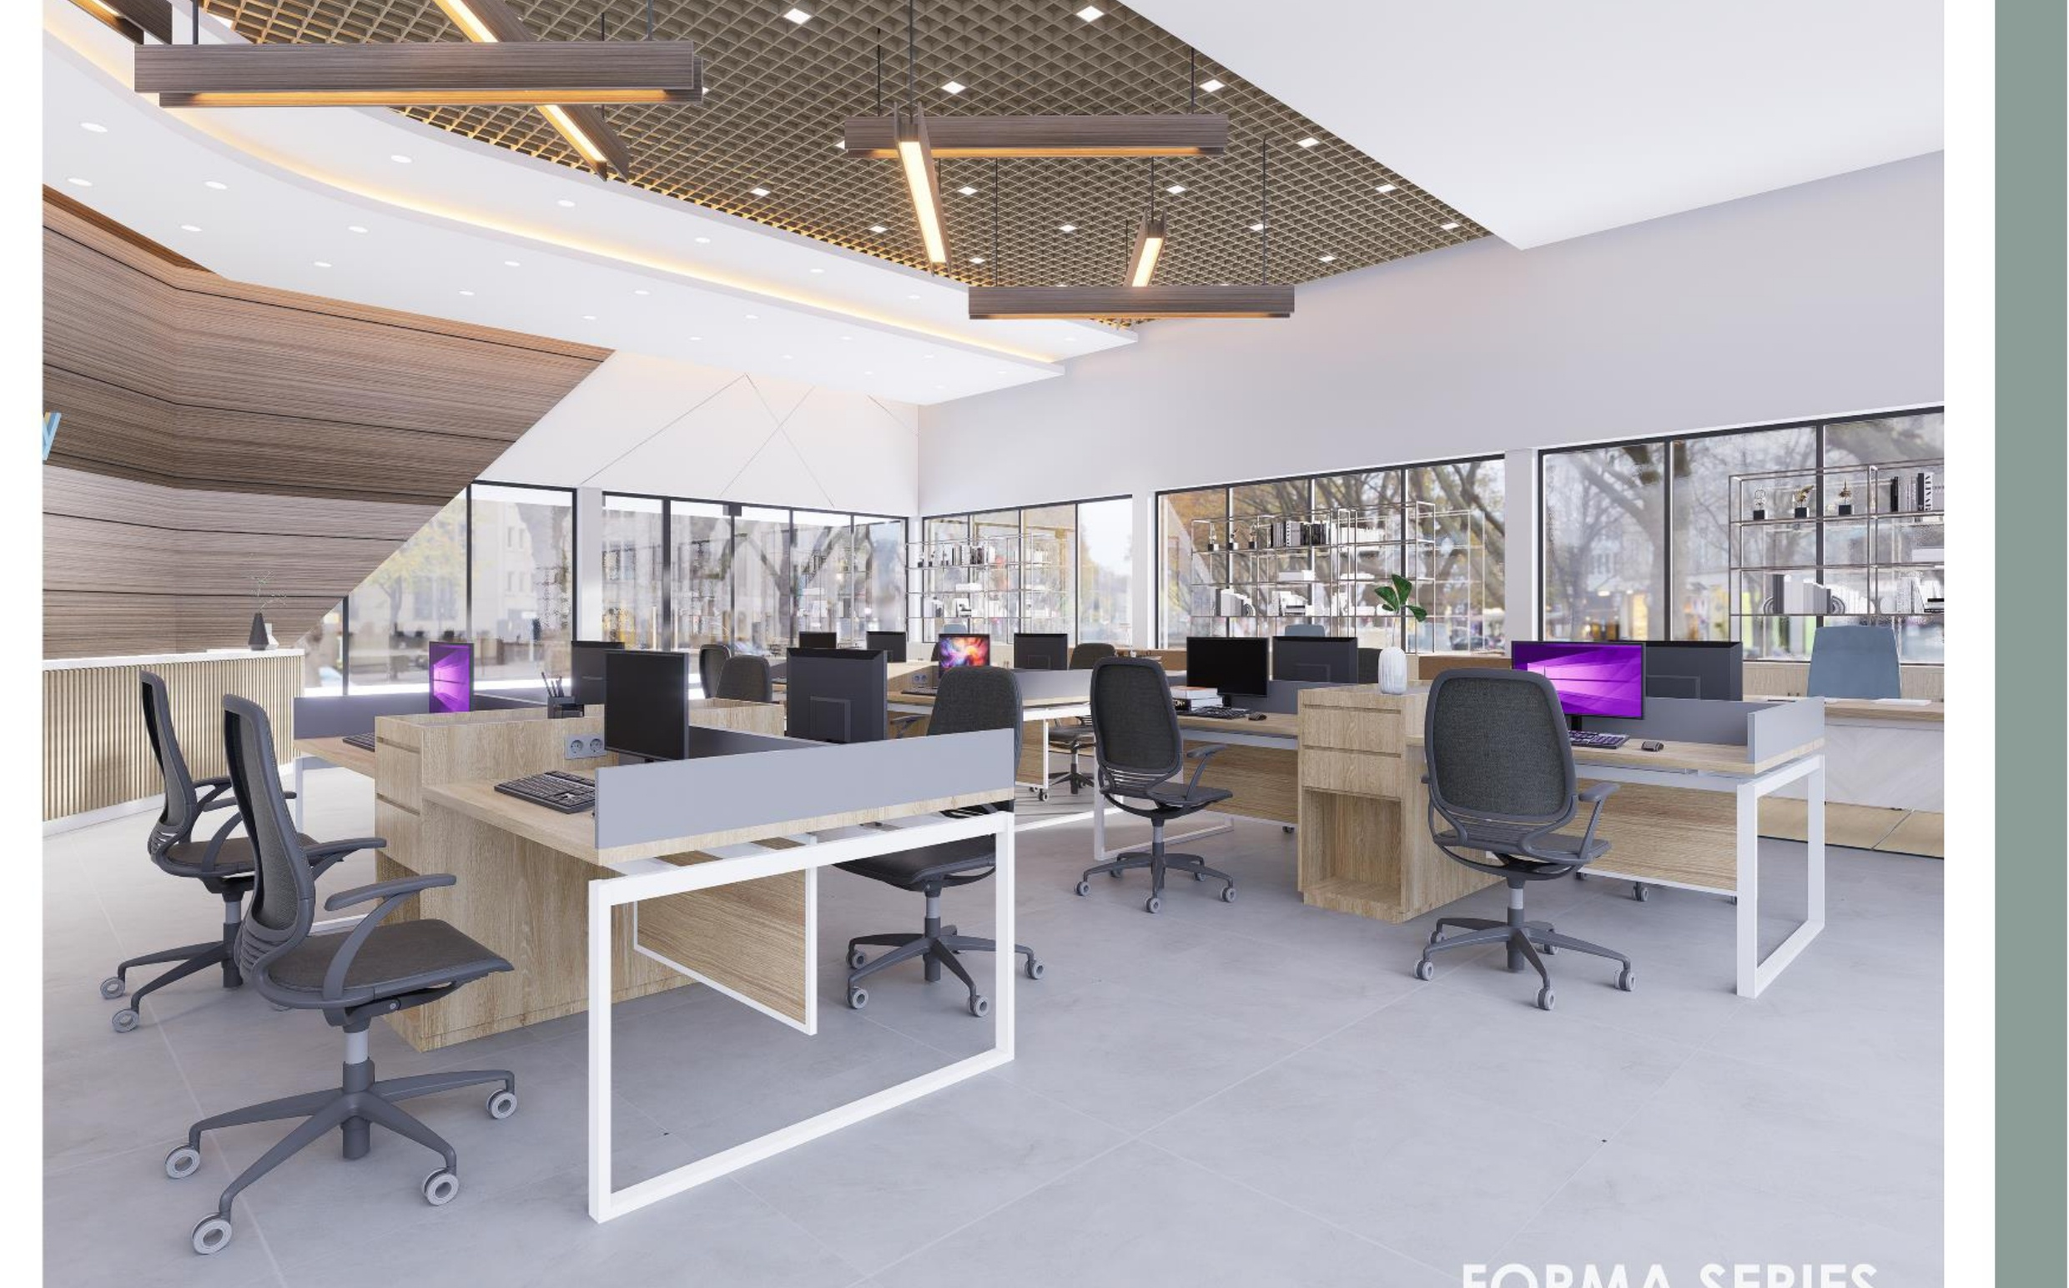
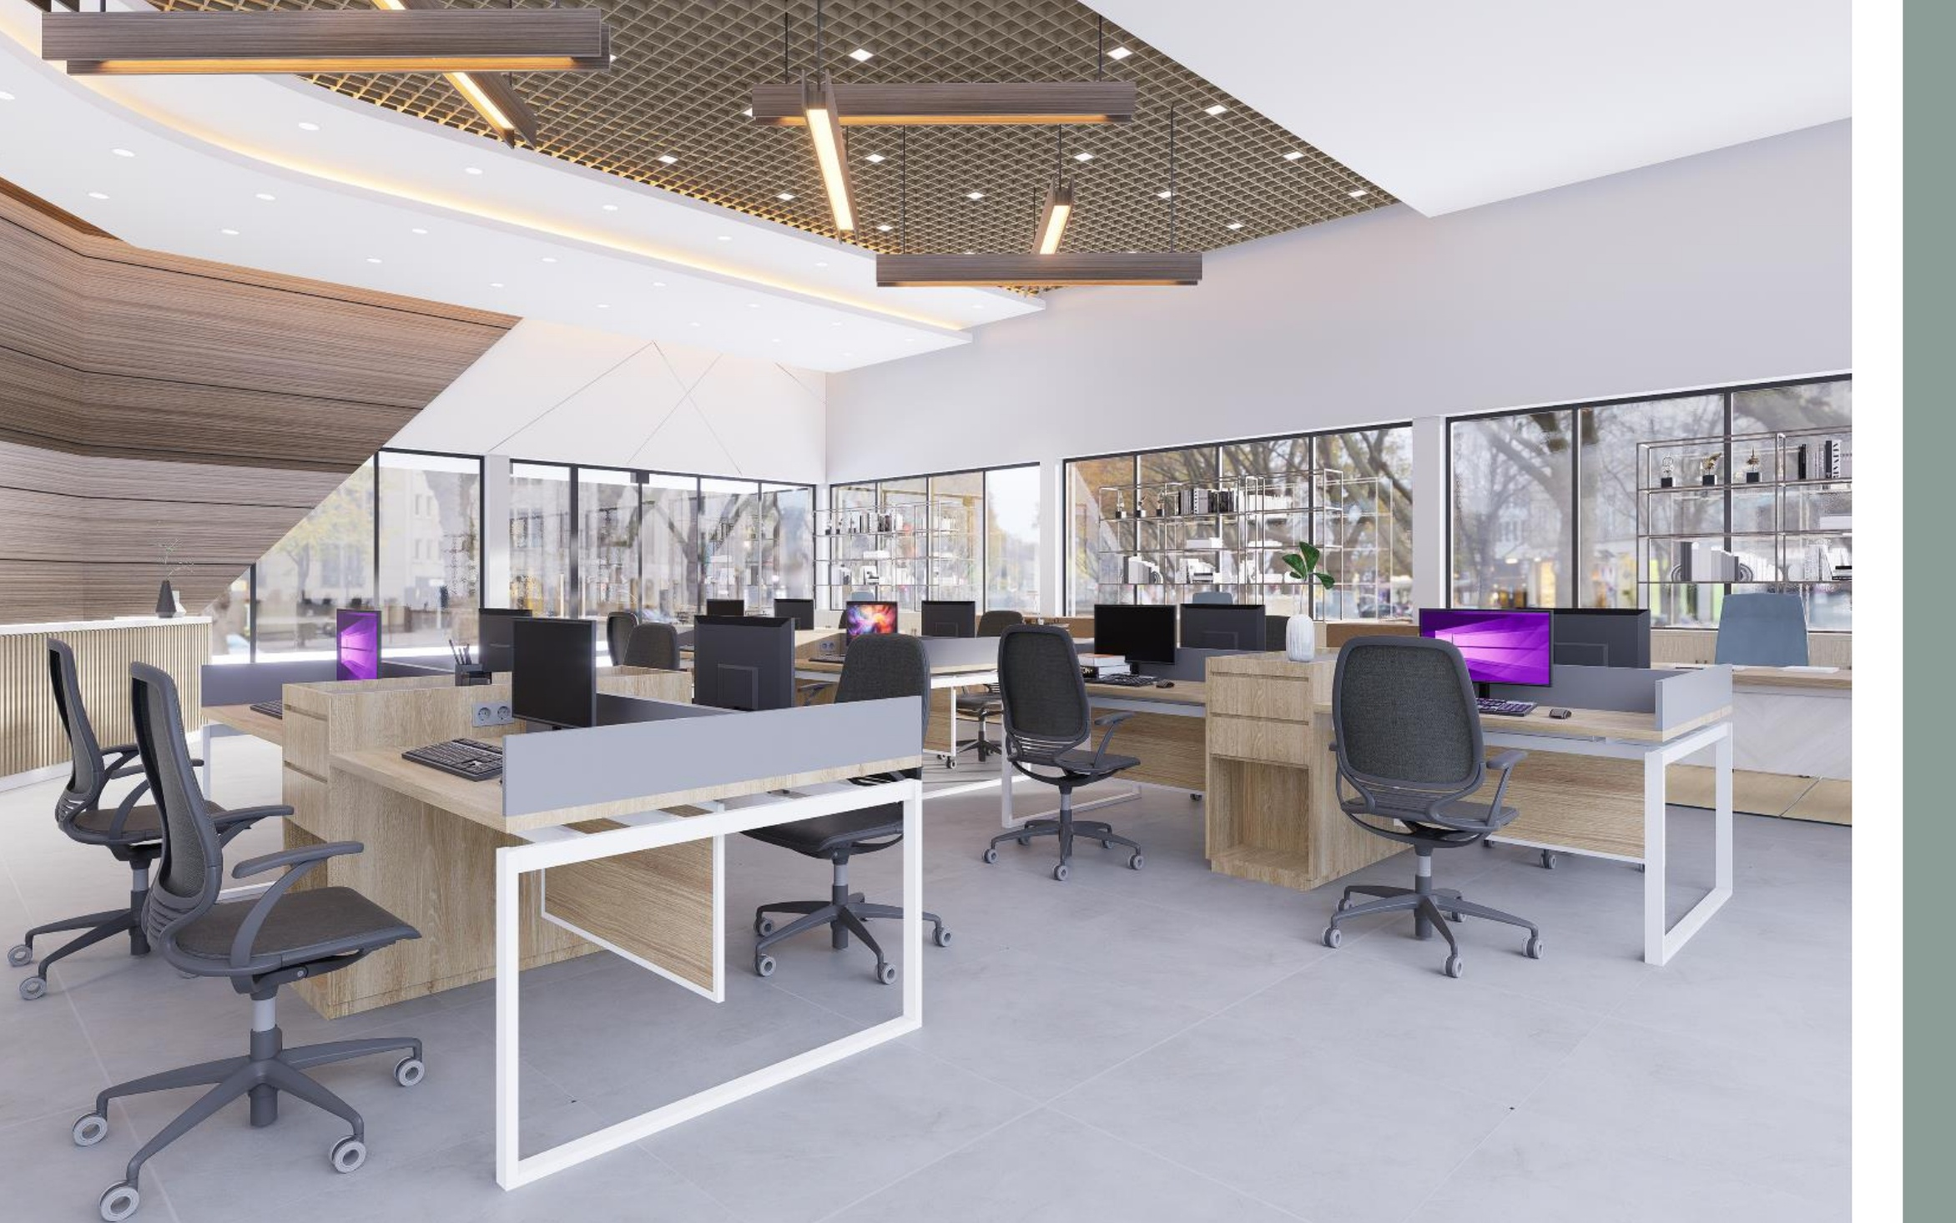
feat: remove green borders from images and implement full-screen lightbox feature in Catalog and Home

diff --git a/src/components/ProductCard.tsx b/src/components/ProductCard.tsx
@@ -18,6 +18,7 @@ interface ProductCardProps {
   accessories?: string[];
   index?: number;
   layout?: 'grid' | 'row';
+  onImageClick?: (img: string) => void;
 }
 
 const ProductCard: React.FC<ProductCardProps> = ({ 
@@ -28,7 +29,8 @@ const ProductCard: React.FC<ProductCardProps> = ({
   models, 
   accessories,
   index = 0,
-  layout = 'grid'
+  layout = 'grid',
+  onImageClick
 }) => {
   const fadeInUp = {
     initial: { y: 20, opacity: 0 },
@@ -43,7 +45,10 @@ const ProductCard: React.FC<ProductCardProps> = ({
         {...fadeInUp}
         className="grid grid-cols-1 lg:grid-cols-12 gap-16 items-center group"
       >
-        <div className="lg:col-span-7 overflow-hidden rounded-[8px] bg-[#e5e5e0]">
+        <div 
+          className="lg:col-span-7 overflow-hidden rounded-[8px] bg-[#e5e5e0] cursor-zoom-in"
+          onClick={() => onImageClick && onImageClick(img)}
+        >
           <img 
             src={img} 
             alt={series} 
@@ -51,16 +56,16 @@ const ProductCard: React.FC<ProductCardProps> = ({
           />
         </div>
         <div className="lg:col-span-4 lg:col-start-9 flex flex-col gap-6">
-          {label && <span className="framer-label text-brand opacity-100">{label}</span>}
+          {label && <span className="framer-label text-brand">{label}</span>}
           <h3 className="font-serif text-[32px] leading-tight text-[#1a1c19]">{series}</h3>
-          {description && <p className="framer-body !text-[15px] opacity-60 leading-relaxed">{description}</p>}
+          {description && <p className="framer-body !text-[15px] text-[#1a1c19]/80 leading-relaxed">{description}</p>}
           
           {models && models.length > 0 && (
             <div className="space-y-2 mt-4">
               {models.map(m => (
-                <div key={m.name} className="flex justify-between items-center py-2 border-b border-[#1a1c19]/5 text-[12px]">
+                <div key={m.name} className="flex justify-between items-center py-2 border-b border-[#1a1c19]/10 text-[12px]">
                   <span className="font-bold">{m.name}</span>
-                  <span className="opacity-40">{m.dim || m.capacity || m.finishes}</span>
+                  <span className="text-[#1a1c19]/60">{m.dim || m.capacity || m.finishes}</span>
                 </div>
               ))}
             </div>
@@ -78,21 +83,24 @@ const ProductCard: React.FC<ProductCardProps> = ({
   return (
     <motion.div 
       {...fadeInUp}
-      className="bg-white p-8 md:p-10 border border-[#1a1c19]/5 rounded-[20px] shadow-sm hover:shadow-xl transition-all group flex flex-col h-full"
+      className="bg-white p-8 md:p-10 border border-[#1a1c19]/10 rounded-[20px] shadow-sm flex flex-col h-full"
     >
-      <div className="aspect-[16/10] overflow-hidden rounded-[12px] mb-8 bg-[#f5f5f0]">
+      <div 
+        className="aspect-[16/10] overflow-hidden rounded-[12px] mb-8 bg-[#f5f5f0] cursor-zoom-in"
+        onClick={() => onImageClick && onImageClick(img)}
+      >
         <img 
           src={img} 
           alt={series} 
-          className="w-full h-full object-cover group-hover:scale-105 transition-transform duration-700" 
+          className="w-full h-full object-cover hover:scale-105 transition-transform duration-700" 
         />
       </div>
       
-      {label && <span className="framer-label text-brand mb-4 block">{label}</span>}
-      <h4 className="font-serif text-[28px] mb-4 group-hover:text-brand transition-colors">{series}</h4>
+      {label && <span className="framer-label text-brand mb-4 block tracking-wider">{label}</span>}
+      <h4 className="font-serif text-[28px] mb-4 text-[#1a1c19]">{series}</h4>
       
       {description && (
-        <p className="text-[13px] opacity-50 mb-8 leading-relaxed flex-grow">
+        <p className="text-[14px] text-[#1a1c19]/70 mb-8 leading-relaxed flex-grow">
           {description}
         </p>
       )}
@@ -100,13 +108,13 @@ const ProductCard: React.FC<ProductCardProps> = ({
       {models && models.length > 0 && (
         <div className="space-y-3 mb-8">
           {models.slice(0, 3).map(m => (
-            <div key={m.name} className="flex justify-between items-center py-3 border-b border-[#1a1c19]/5 text-[12px]">
+            <div key={m.name} className="flex justify-between items-center py-3 border-b border-[#1a1c19]/10 text-[12px]">
               <span className="font-bold">{m.name}</span>
-              <span className="opacity-40">{m.dim || m.capacity || m.finishes}</span>
+              <span className="text-[#1a1c19]/60">{m.dim || m.capacity || m.finishes}</span>
             </div>
           ))}
           {models.length > 3 && (
-            <p className="text-[10px] opacity-30 italic">+{models.length - 3} model lainnya</p>
+            <p className="text-[10px] text-[#1a1c19]/40 italic">+{models.length - 3} model lainnya</p>
           )}
         </div>
       )}
@@ -114,14 +122,14 @@ const ProductCard: React.FC<ProductCardProps> = ({
       {accessories && accessories.length > 0 && (
         <div className="flex flex-wrap gap-2 mb-8">
           {accessories.map(a => (
-            <span key={a} className="text-[9px] bg-[#F5F5F0] text-[#1a1c19]/60 px-2 py-1 rounded-full font-medium">
+            <span key={a} className="text-[9px] bg-[#F5F5F0] text-[#1a1c19] px-2 py-1 rounded-full font-medium">
               {a}
             </span>
           ))}
         </div>
       )}
 
-      <div className="flex items-center gap-3 text-brand mt-auto pt-4 border-t border-[#1a1c19]/5">
+      <div className="flex items-center gap-3 text-brand mt-auto pt-4 border-t border-[#1a1c19]/10">
         <span className="text-[11px] uppercase tracking-tighter font-bold">Detail Produk</span>
         <ArrowRight weight="bold" size={16} />
       </div>

diff --git a/src/pages/Catalog.tsx b/src/pages/Catalog.tsx
@@ -1,6 +1,6 @@
 import React, { useState } from 'react';
 import { motion, AnimatePresence } from 'framer-motion';
-import { ArrowRight } from '@phosphor-icons/react';
+import { ArrowRight, X } from '@phosphor-icons/react';
 import { kcrData } from '../data/kcrData';
 import SEO from '../components/SEO';
 import ProductCard from '../components/ProductCard';
@@ -9,6 +9,7 @@ import PageHeader from '../components/PageHeader';
 const Catalog: React.FC = () => {
   const [mainPillar, setMainPillar] = useState<'infrastructure' | 'interior'>('infrastructure');
   const [activeSection, setActiveSection] = useState<string>('all');
+  const [selectedImage, setSelectedImage] = useState<string | null>(null);
 
   const images = kcrData.images.catalog;
   const tabTransition = { type: "spring", stiffness: 500, damping: 35 } as any;
@@ -112,15 +113,15 @@ const Catalog: React.FC = () => {
                   <div className="aspect-[16/10] overflow-hidden rounded-[8px] mb-8 bg-[#e5e5e0]">
                     <motion.img 
                       src={card.img} 
-                      className="w-full h-full object-cover" 
-                      whileHover={{ scale: 1.05 }}
+                      className="w-full h-full object-cover cursor-zoom-in" 
                       transition={{ duration: 0.8 }}
                       alt={card.l} 
+                      onClick={(e) => { e.stopPropagation(); setSelectedImage(card.img || null); }}
                     />
                   </div>
                   <span className="framer-label text-brand mb-4 block">Sub-Kategori</span>
                   <h2 className="font-serif text-[28px] text-[#1a1c19] mb-2">{card.l}</h2>
-                  <p className="framer-body !text-[14px] opacity-50 mb-6">{card.c}</p>
+                  <p className="framer-body !text-[14px] text-[#1a1c19]/70 mb-6">{card.c}</p>
                   <div className="flex items-center gap-3 text-brand">
                     <span className="text-[11px] uppercase tracking-tighter font-bold">Lihat Detail</span>
                     <ArrowRight weight="bold" size={16} />
@@ -144,6 +145,7 @@ const Catalog: React.FC = () => {
                   {...s}
                   label="Executive Collection"
                   index={idx}
+                  onImageClick={setSelectedImage}
                 />
               ))}
             </div>
@@ -163,6 +165,7 @@ const Catalog: React.FC = () => {
                   {...s}
                   label="Team Performance"
                   index={idx}
+                  onImageClick={setSelectedImage}
                 />
               ))}
             </div>
@@ -182,6 +185,7 @@ const Catalog: React.FC = () => {
                   {...s}
                   label="Boardroom Solutions"
                   index={idx}
+                  onImageClick={setSelectedImage}
                 />
               ))}
             </div>
@@ -201,6 +205,7 @@ const Catalog: React.FC = () => {
                   {...s}
                   label="Hospitality Series"
                   index={idx}
+                  onImageClick={setSelectedImage}
                 />
               ))}
             </div>
@@ -220,9 +225,35 @@ const Catalog: React.FC = () => {
                 description="Kami menghadirkan solusi teknis kelas dunia yang telah teruji untuk infrastruktur vital nasional, menjamin durabilitas jangka panjang dan keamanan struktural."
                 label="Spesialisasi Teknis"
                 layout="row"
+                onImageClick={setSelectedImage}
               />
             </div>
           </motion.section>
+        )}
+      </AnimatePresence>
+
+      <AnimatePresence>
+        {selectedImage && (
+          <motion.div
+            initial={{ opacity: 0 }}
+            animate={{ opacity: 1 }}
+            exit={{ opacity: 0 }}
+            onClick={() => setSelectedImage(null)}
+            className="fixed inset-0 z-[100] flex items-center justify-center bg-black/90 p-4 sm:p-8 cursor-zoom-out backdrop-blur-sm"
+          >
+            <button className="absolute top-8 right-8 text-white/50 hover:text-white transition-colors" onClick={() => setSelectedImage(null)}>
+              <X weight="light" size={32} />
+            </button>
+            <motion.img
+              initial={{ scale: 0.9, y: 20 }}
+              animate={{ scale: 1, y: 0 }}
+              exit={{ scale: 0.9, y: 20 }}
+              transition={{ type: "spring", stiffness: 300, damping: 30 }}
+              src={selectedImage}
+              alt="Enlarged Detail"
+              className="max-w-full max-h-full object-contain shadow-2xl"
+            />
+          </motion.div>
         )}
       </AnimatePresence>
     </div>

diff --git a/src/pages/Home.tsx b/src/pages/Home.tsx
@@ -1,13 +1,14 @@
 import React, { useState } from 'react';
 import { Link } from 'react-router-dom';
-import { motion } from 'framer-motion';
-import { CaretRight, CaretLeft, ArrowUpRight } from '@phosphor-icons/react';
+import { motion, AnimatePresence } from 'framer-motion';
+import { CaretRight, CaretLeft, ArrowUpRight, X } from '@phosphor-icons/react';
 import { kcrData } from '../data/kcrData';
 import SEO from '../components/SEO';
 import ProductCard from '../components/ProductCard';
 
 const Home: React.FC = () => {
   const [heroIndex, setHeroIndex] = useState(0);
+  const [selectedImage, setSelectedImage] = useState<string | null>(null);
   
   const fadeInUp = {
     initial: { y: 20, opacity: 0 },
@@ -237,9 +238,14 @@ const Home: React.FC = () => {
             </motion.div>
             <motion.div {...fadeInUp} transition={{ delay: 0.3 }} className="lg:col-span-5 lg:col-start-8">
               <div className="relative aspect-[4/5] rounded-[24px] overflow-hidden shadow-2xl group">
-                <img src={kcrData.images.hero[2]} alt="KCR Field Operation" className="w-full h-full object-cover transition-transform duration-700 group-hover:scale-110" />
-                <div className="absolute inset-0 bg-brand/20 mix-blend-multiply opacity-0 group-hover:opacity-100 transition-opacity duration-700" />
-                <div className="absolute bottom-8 left-8 right-8 p-8 bg-white/90 backdrop-blur-md rounded-xl">
+                <img 
+                  src={kcrData.images.hero[2]} 
+                  alt="KCR Field Operation" 
+                  className="w-full h-full object-cover transition-transform duration-700 group-hover:scale-110 cursor-zoom-in" 
+                  onClick={() => setSelectedImage(kcrData.images.hero[2])}
+                />
+                <div className="absolute inset-0 bg-brand/20 mix-blend-multiply opacity-0 group-hover:opacity-100 transition-opacity duration-700 pointer-events-none" />
+                <div className="absolute bottom-8 left-8 right-8 p-8 bg-white/90 backdrop-blur-md rounded-xl pointer-events-none">
                   <p className="framer-body !text-brand italic font-serif text-lg mb-2">"Keamanan bukan sekadar opsi, melainkan pondasi utama dari setiap jengkal beton yang kami aplikasikan."</p>
                   <p className="framer-label !text-[#2A2C2B] !opacity-100">— Tim Teknis KCR</p>
                 </div>
@@ -282,6 +288,7 @@ const Home: React.FC = () => {
                 description={p.client}
                 label={`${p.year} / ${p.category}`}
                 index={idx}
+                onImageClick={setSelectedImage}
               />
             ))}
           </div>
@@ -306,6 +313,31 @@ const Home: React.FC = () => {
           </div>
         </motion.div>
       </section>
+
+      <AnimatePresence>
+        {selectedImage && (
+          <motion.div
+            initial={{ opacity: 0 }}
+            animate={{ opacity: 1 }}
+            exit={{ opacity: 0 }}
+            onClick={() => setSelectedImage(null)}
+            className="fixed inset-0 z-[100] flex items-center justify-center bg-black/90 p-4 sm:p-8 cursor-zoom-out backdrop-blur-sm"
+          >
+            <button className="absolute top-8 right-8 text-white/50 hover:text-white transition-colors" onClick={() => setSelectedImage(null)}>
+              <X weight="light" size={32} />
+            </button>
+            <motion.img
+              initial={{ scale: 0.9, y: 20 }}
+              animate={{ scale: 1, y: 0 }}
+              exit={{ scale: 0.9, y: 20 }}
+              transition={{ type: "spring", stiffness: 300, damping: 30 }}
+              src={selectedImage}
+              alt="Enlarged Detail"
+              className="max-w-full max-h-full object-contain shadow-2xl"
+            />
+          </motion.div>
+        )}
+      </AnimatePresence>
     </div>
   );
 };

diff --git a/src/pages/Portfolio.tsx b/src/pages/Portfolio.tsx
@@ -44,7 +44,7 @@ const Portfolio: React.FC = () => {
         <div className="framer-container py-5 flex flex-wrap items-center gap-x-10 gap-y-3">
           <button 
             onClick={() => setActiveCategory('SEMUA')}
-            className={`framer-label transition-all duration-500 relative pb-1 ${activeCategory === 'SEMUA' ? 'opacity-100 text-[#2A2C2B]' : 'opacity-40 hover:opacity-100'}`}
+            className={`framer-label transition-all duration-500 relative pb-1 ${activeCategory === 'SEMUA' ? 'opacity-100 text-[#2A2C2B]' : 'opacity-60 hover:opacity-100'}`}
           >
             Semua ({projects.length})
             {activeCategory === 'SEMUA' && <motion.div layoutId="underline" className="absolute bottom-0 left-0 w-full h-[1.5px] bg-brand" />}
@@ -53,7 +53,7 @@ const Portfolio: React.FC = () => {
             <button
               key={cat}
               onClick={() => setActiveCategory(cat)}
-              className={`framer-label transition-all duration-500 relative pb-1 ${activeCategory === cat ? 'opacity-100 text-[#2A2C2B]' : 'opacity-40 hover:opacity-100'}`}
+              className={`framer-label transition-all duration-500 relative pb-1 ${activeCategory === cat ? 'opacity-100 text-[#2A2C2B]' : 'opacity-60 hover:opacity-100'}`}
             >
               {cat}
               {activeCategory === cat && <motion.div layoutId="underline" className="absolute bottom-0 left-0 w-full h-[1.5px] bg-brand" />}

diff --git a/src/data/kcrData.ts b/src/data/kcrData.ts
@@ -141,7 +141,7 @@ export const kcrData = {
     hero: [
       "https://images.unsplash.com/photo-1486406146926-c627a92ad1ab?auto=format&fit=crop&q=80&w=2000", // Skyscraper BUMN
       "https://images.unsplash.com/photo-1503387762-592deb58ef4e?auto=format&fit=crop&q=80&w=2000", // Modern Architecture
-      "https://images.unsplash.com/photo-1541888946425-d81bb19480c5?auto=format&fit=crop&q=80&w=2000"  // Site Construction
+      "https://images.unsplash.com/photo-1504307651254-35680f356dfd?auto=format&fit=crop&q=80&w=2000"  // Site Construction
     ],
     catalog: {
       prefab: "https://images.unsplash.com/photo-1513828583688-c52646db42da?auto=format&fit=crop&q=80&w=1200", // Steel Frame/Construction Site

diff --git a/crop_images_v3.py b/crop_images_v3.py
@@ -1,0 +1,58 @@
+from PIL import Image
+import os
+
+# Custom crops to remove the green bar on the side
+def crop_custom(file_path, top_offset_ratio, bottom_offset_ratio, left_offset_ratio=0.045, right_offset_ratio=0.01):
+    try:
+        img = Image.open(file_path)
+        w, h = img.size
+        
+        # Calculate new horizontal bounds to remove the green bar (mostly on the left)
+        left = int(w * left_offset_ratio)
+        right = int(w * (1 - right_offset_ratio))
+        
+        # Vertical bounds based on previous vision analysis
+        top = int(h * top_offset_ratio)
+        bottom = int(h * bottom_offset_ratio)
+        
+        img_cropped = img.crop((left, top, right, bottom))
+        
+        # Force 16:10 aspect ratio
+        cw, ch = img_cropped.size
+        target_h = int(cw * 10 / 16)
+        if ch > target_h:
+            diff = ch - target_h
+            img_cropped = img_cropped.crop((0, diff//2, cw, ch - diff//2))
+
+        new_path = file_path.replace('.jpg', '_cropped.jpg')
+        img_cropped.save(new_path, quality=95)
+        print(f"Removed Border: {new_path}")
+    except Exception as e:
+        print(f"Error on {file_path}: {e}")
+
+# Group 1: Overview
+overview_files = [
+    "BARA_02.jpg", "COSMO_BEDSERIES.jpg", "FERMI_RMT01.jpg", "FERMI_ST3.jpg",
+    "FORMA_SERIES.jpg", "HOSPITALITY_OTHERS.jpg", "INCORE_SERIES.jpg",
+    "INTERIOR_FITOUT.jpg", "LUNA_SERIES.jpg", "MODERNA_SERIES.jpg",
+    "NOVA_SERIES.jpg", "PRIME_SERIES.jpg"
+]
+
+for f in overview_files:
+    crop_custom(os.path.join("public/assets/images/overview", f), 0.08, 0.52, 0.045, 0.01)
+
+# Group 2: Workstation
+workstation_dir = "public/assets/images/workstation"
+full_page = ["WORKSTATION_FORMA.jpg", "WORKSTATION_MODERNA.jpg", "EXECUTIVEDESK_PRIME_SERIES.jpg"]
+for f in full_page:
+    crop_custom(os.path.join(workstation_dir, f), 0.15, 0.95, 0.045, 0.01)
+
+dual_prod = ["LAMINA_COMPACT_LAMINA_EXTENT.jpg", "PRIME_COMPACT_PRIME_EXTENT.jpg"]
+for f in dual_prod:
+    crop_custom(os.path.join(workstation_dir, f), 0.10, 0.48, 0.045, 0.01)
+
+others = ["STAND_ALONE_DESK_INCORE.jpg", "STAND_ALONE_DESK_LAMINA.jpg", 
+          "CUSTOMIZE_COLOR_ACESCORIES.jpg", "CUSTOMIZE_COLOR_ACESCORIES2.jpg", "CUSTOMIZE_COLOR_ACESCORIES3.jpg"]
+for f in others:
+    crop_custom(os.path.join(workstation_dir, f), 0.05, 0.60, 0.045, 0.01)
+
